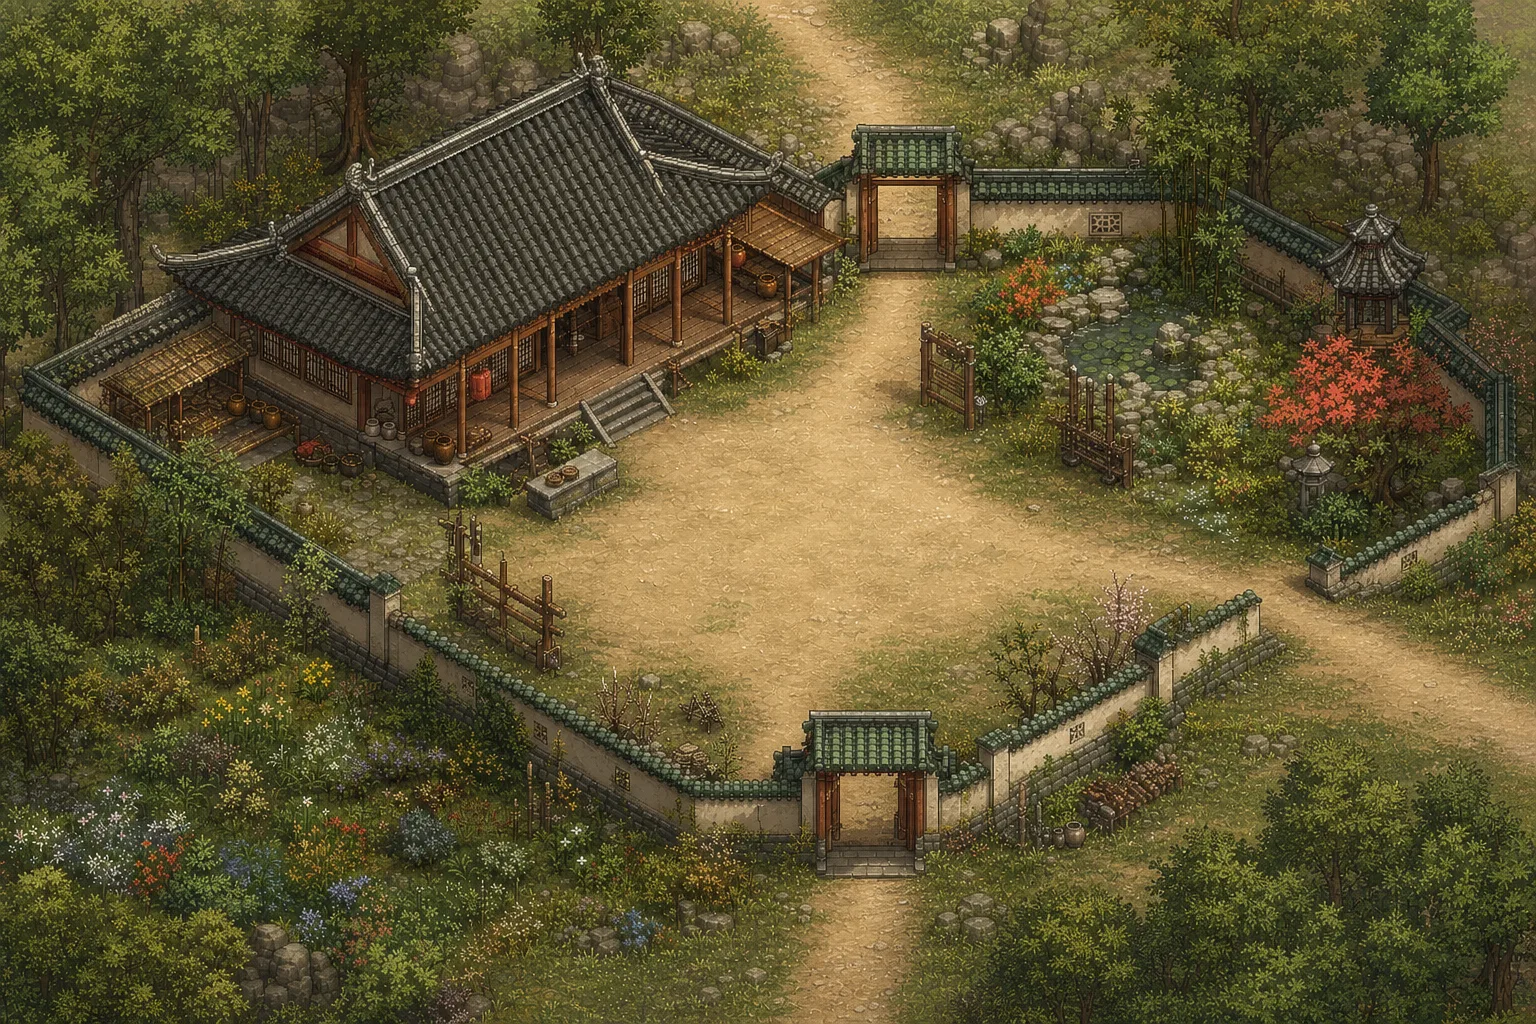
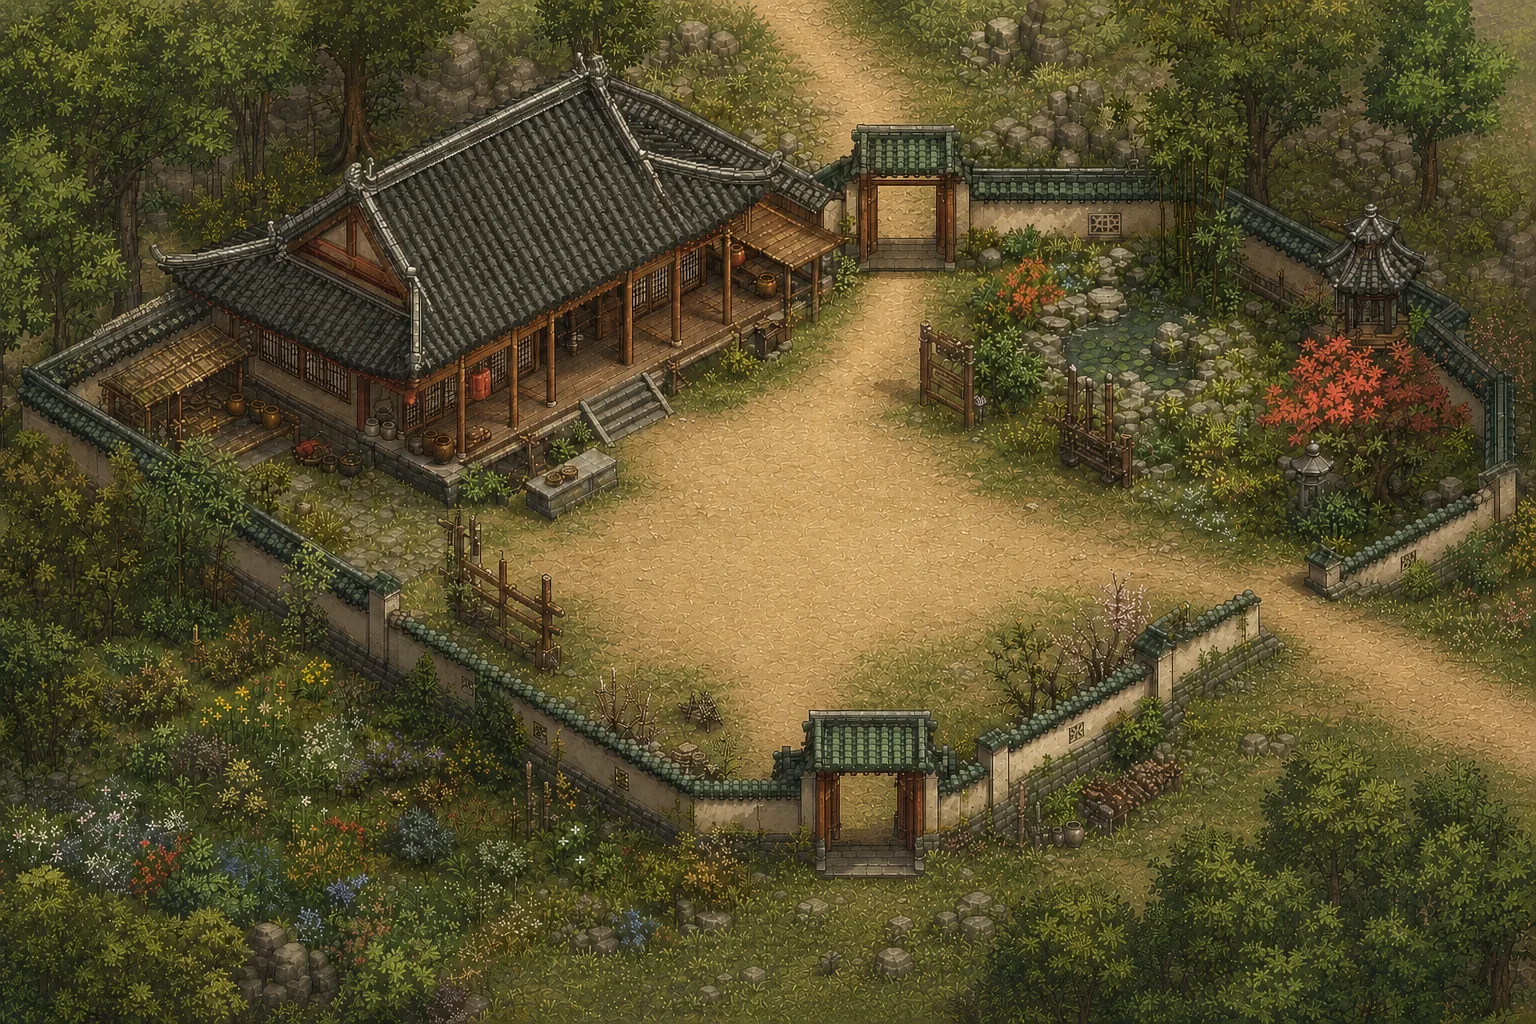
WIP: second-pass map paintings (group 6); collision tool --image
Claude-Session: https://claude.ai/code/session_015NF6nczcB9pq1DHZKmDsF7

Changed region(s): [[0.0, 0.0, 1.0, 1.0]]

diff --git a/scripts/map-collision-tool.ts b/scripts/map-collision-tool.ts
@@ -2,7 +2,8 @@
  * Author and check world-map collision footprints.
  *   bun scripts/map-collision-tool.ts <locationId> [footprints.json] [overlay.png] [--exits exits.json]
  * --exits takes {"<destination id>": {"x": worldX, "y": worldY}} (960×640) and
- * tries exit markers there instead of their current spots.
+ * tries exit markers there instead of their current spots; --image <file> draws the
+ * overlay on a candidate painting instead of the installed one.
  * Prints marker world coordinates (960×640) and, with a footprint JSON array
  * (same shape as WorldFootprint), checks every marker is reachable from spawn
  * and renders the map with footprints (red) and markers (green ok / magenta fail).
@@ -15,6 +16,9 @@ import { worldFootprints, type WorldFootprint } from "../lib/stage/world-navigat
 import { probeWorldMap, type ProbeMarker } from "../lib/stage/world-map-probe";
 
 const argv = process.argv.slice(2);
+const imageAt = argv.indexOf("--image");
+const imageOverride = imageAt >= 0 ? argv[imageAt + 1] : null;
+if (imageAt >= 0) argv.splice(imageAt, 2);
 const exitsAt = argv.indexOf("--exits");
 const exitOverride: Record<string, { x: number; y: number }> = exitsAt >= 0 ? JSON.parse(readFileSync(argv[exitsAt + 1], "utf8")) : {};
 if (exitsAt >= 0) argv.splice(exitsAt, 2);
@@ -47,7 +51,7 @@ if (overlayPath) {
   const grid = Array.from({ length: 19 }, (_, i) => `<line x1="${(i + 1) * 48}" y1="0" x2="${(i + 1) * 48}" y2="640" stroke="#ffffff30"/><text x="${(i + 1) * 48 + 2}" y="10" font-size="9" fill="#fff">${(i + 1) * 48}</text>`).join("")
     + Array.from({ length: 12 }, (_, i) => `<line x1="0" y1="${(i + 1) * 48}" x2="960" y2="${(i + 1) * 48}" stroke="#ffffff30"/><text x="2" y="${(i + 1) * 48 - 2}" font-size="9" fill="#fff">${(i + 1) * 48}</text>`).join("");
   const svg = `<svg xmlns="http://www.w3.org/2000/svg" width="960" height="640">${grid}${shapes}<circle cx="${spawn.x}" cy="${spawn.y}" r="8" fill="#ffd000" stroke="#000"/>${dots}</svg>`;
-  await sharp(`public${map.image}`).resize(960, 640).composite([{ input: Buffer.from(svg) }]).png().toFile(overlayPath);
+  await sharp(imageOverride ?? `public${map.image}`).resize(960, 640).composite([{ input: Buffer.from(svg) }]).png().toFile(overlayPath);
   console.log(`overlay → ${overlayPath}`);
 }
 process.exit(spawnOk && results.every((r) => r.ok) ? 0 : 1);
